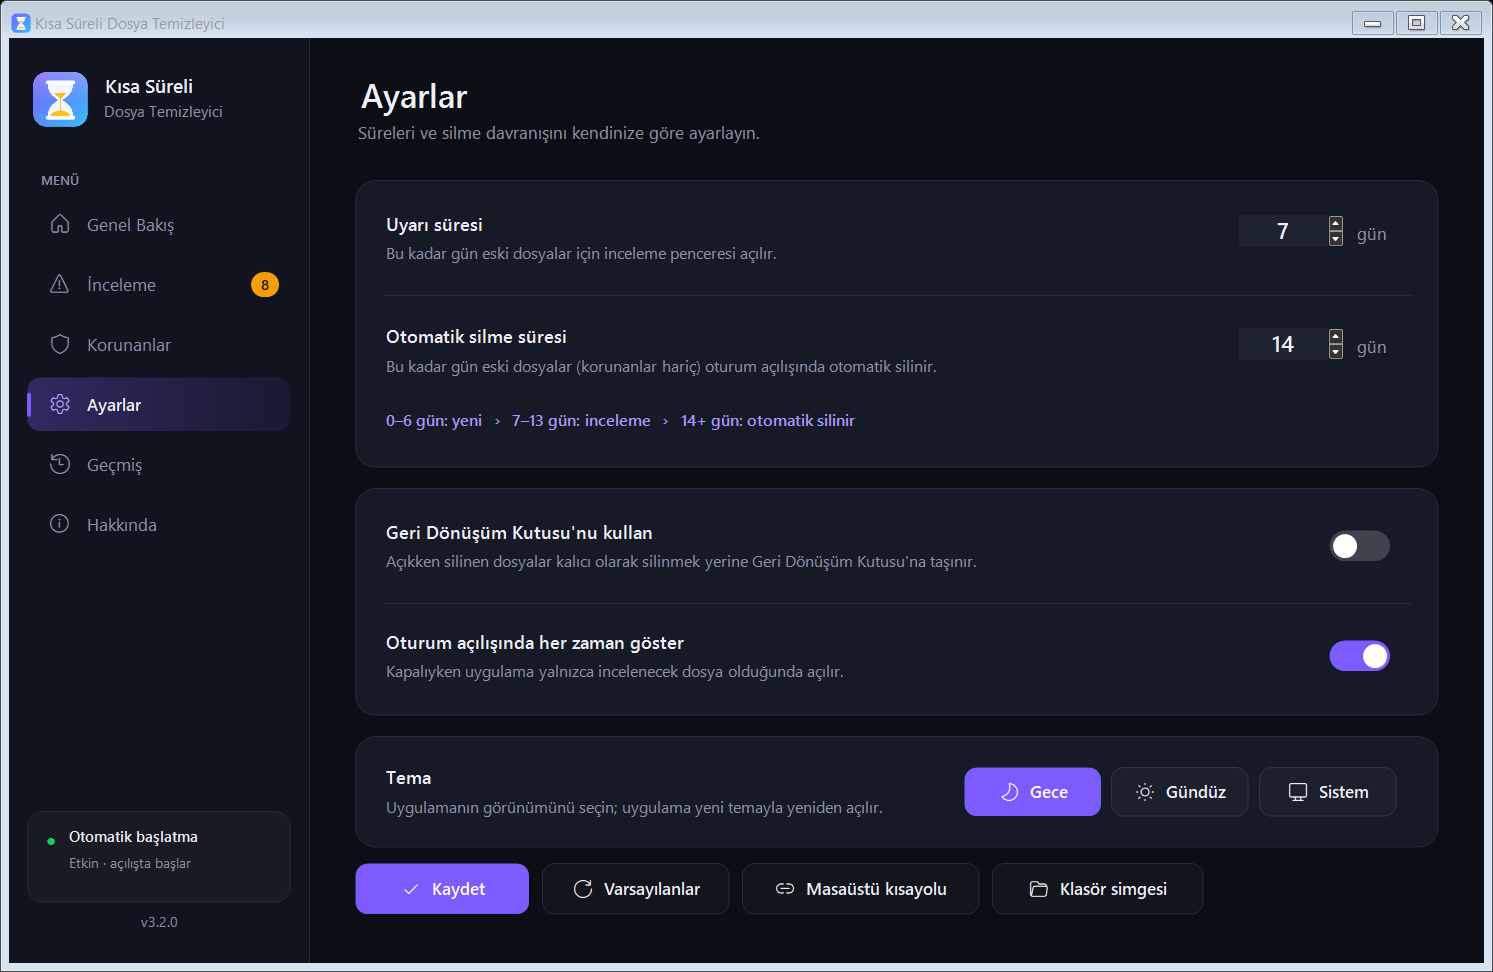
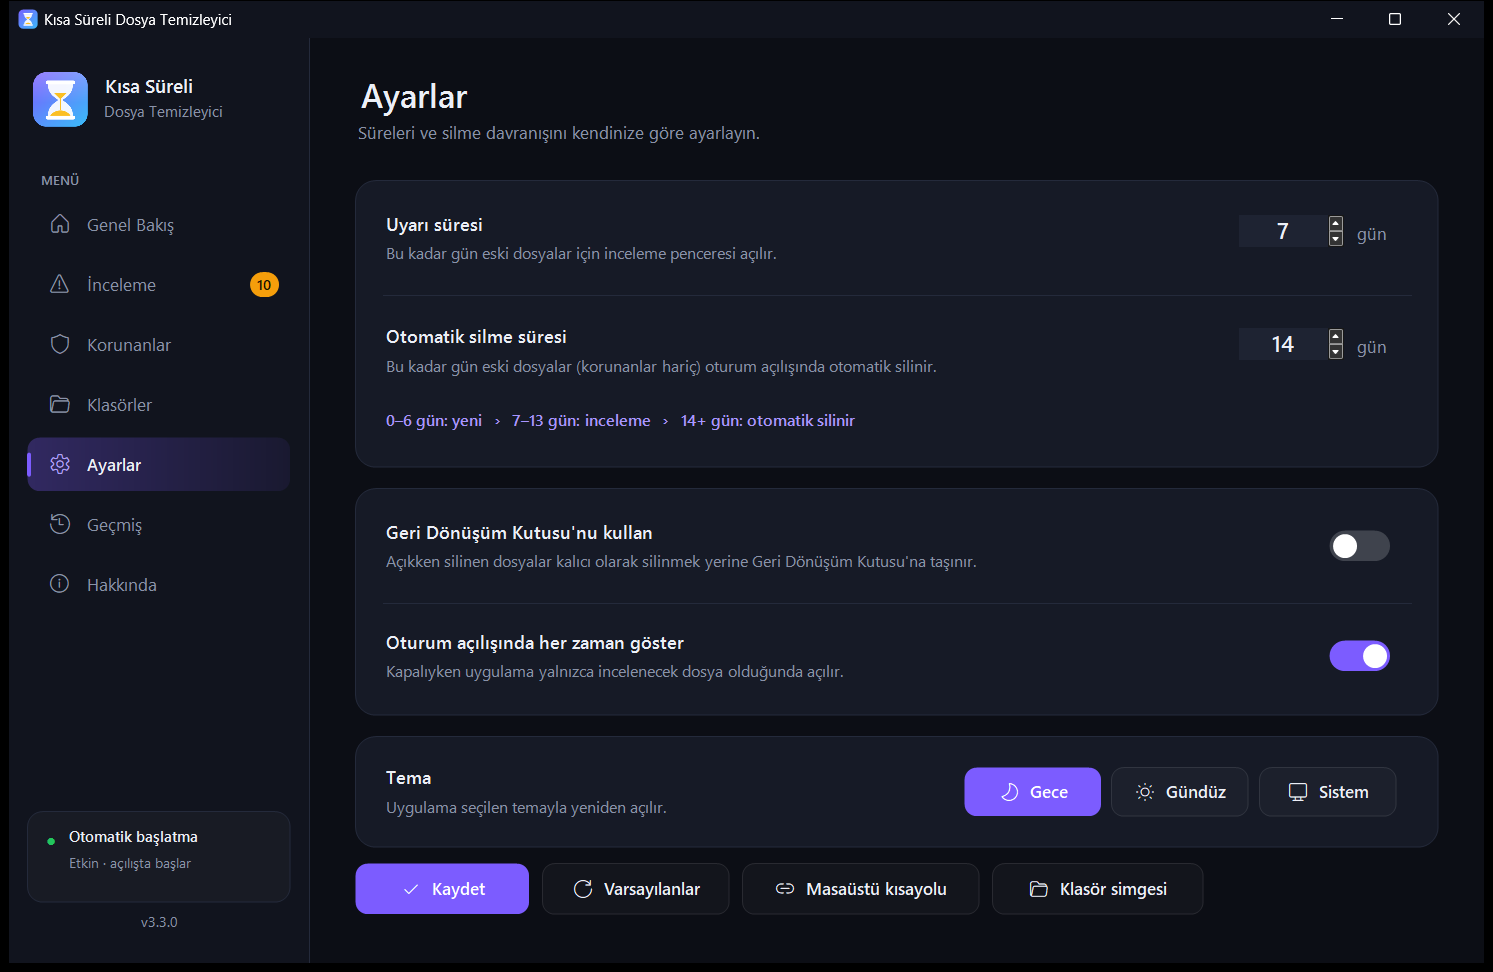
v3.3.0: Ek klasör desteği ve tema düğmesi örtülme düzeltmesi
- Klasörler sayfası: short-term-files dışındaki klasörler (ör. İndirilenler)
  takibe alınabilir; dosyaları incelenir, korunabilir, otomatik temizlenir.
- Eklenen klasörde dosya yaşı eklenme anından başlar (mevcut dosyalar hemen
  silinmez). Sürücü kökü, sistem/program klasörleri, AppData, kullanıcı
  klasörü/Masaüstü/Belgeler'in tamamı ve iç içe eklemeler engellenir.
- Silme ve koruma yalnızca takip edilen klasörlerin içinde çalışır.
- Ayarlar > Tema: dar pencerede açıklama metni "Gece" düğmesini örtüyordu.

Changed region(s): [[0.0, 0.0, 1.0, 1.0], [0.3081, 0.8025, 0.5546, 0.8333], [0.1541, 0.2778, 0.1849, 0.3086]]

diff --git a/.system/App.cs b/.system/App.cs
@@ -23,8 +23,8 @@ using System.Windows.Forms;
 [assembly: AssemblyProduct("Kısa Süreli Dosya Temizleyici")]
 [assembly: AssemblyCompany("Umut Zaif")]
 [assembly: AssemblyCopyright("MIT License - github.com/umutzaif/short-term-file-cleaner")]
-[assembly: AssemblyVersion("3.2.1.0")]
-[assembly: AssemblyFileVersion("3.2.1.0")]
+[assembly: AssemblyVersion("3.3.0.0")]
+[assembly: AssemblyFileVersion("3.3.0.0")]
 
 static class Program
 {

diff --git a/.github/README.md b/.github/README.md
@@ -7,7 +7,7 @@
 **Masaüstündeki geçici dosyalarınızı unutun. Süresi yaklaşanları size sorar, süresi dolanları kendisi temizler.**
 
 [![Platform](https://img.shields.io/badge/platform-Windows%2010%20%7C%2011-blue.svg)](https://www.microsoft.com/windows)
-[![Version](https://img.shields.io/badge/sürüm-3.2.1-7c5cff.svg)](../.system/CHANGELOG.md)
+[![Version](https://img.shields.io/badge/sürüm-3.3.0-7c5cff.svg)](../.system/CHANGELOG.md)
 [![License](https://img.shields.io/badge/lisans-MIT-green.svg)](../.system/LICENSE)
 
 </div>
@@ -67,6 +67,18 @@ Uyarı ve otomatik silme süreleri, Geri Dönüşüm Kutusu seçeneği, açılı
 
 ---
 
+## 📂 Ek klasörler
+
+`short-term-files` dışında, örneğin **İndirilenler** gibi istediğiniz klasörleri de takip ettirebilirsiniz: **Klasörler → Klasör Ekle**. Eklenen klasörlerdeki dosyalar da süreleri dolunca İnceleme ekranında size sorulur, korunabilir ve otomatik temizlenir.
+
+- **Güvenli başlangıç:** Eklenen klasördeki dosyaların süresi, klasörün eklendiği andan başlar. Klasörde yıllardır duran dosyalar bile hemen silinmez; önce incelemenize sunulur.
+- **Korunan konumlar:** Sürücü kökleri (ör. `C:\`), Windows, Program Files, AppData ile kullanıcı klasörünün, Masaüstü'nün ve Belgeler'in tamamı eklenemez.
+- **Takipten çıkarmak** klasörü veya dosyaları silmez; yalnızca denetimi durdurur.
+
+![Klasörler](screenshots/klasorler.png)
+
+---
+
 ## 🔄 Güncellemeler
 
 Yeni bir sürüm çıktığında uygulamayı silip yeniden indirmeniz **gerekmez**:
@@ -92,6 +104,7 @@ Ayarlarınız, korunan dosya listeniz, işlem geçmişiniz ve klasördeki dosyal
 - **Dosya koruma:** Önemli dosyalarınızı kalıcı olarak koruyun
 - **Geri Dönüşüm Kutusu desteği:** İsterseniz dosyalar kalıcı silinmek yerine Geri Dönüşüm Kutusu'na gider
 - **Korunan sistem dosyaları:** Uygulamanın kendi dosyaları gizli `.system` klasöründedir. Listelerde görünmez, silinemez ve korumaları değiştirilemez
+- **Ek klasörler:** İndirilenler gibi başka klasörleri de takip ettirin
 - **Tema seçimi:** Gece, Gündüz veya Windows ayarını izleyen Sistem teması
 - **Uygulama içi güncelleme:** Yeni sürüm tek tıkla kurulur, ayarlar ve dosyalar korunur
 - **İşlem geçmişi:** Yapılan her silme ve koruma işlemi kaydedilir

diff --git a/.system/CHANGELOG.md b/.system/CHANGELOG.md
@@ -2,6 +2,21 @@
 
 All notable changes to this project will be documented in this file.
 
+## [3.3.0] - 2026-10-14
+
+### Added
+- **Ek klasörler**: Yeni **Klasörler** sayfasından short-term-files dışındaki klasörler (ör. İndirilenler) takibe
+  alınabilir. Bu klasörlerdeki dosyalar da incelenir, korunabilir ve otomatik temizlenir; İnceleme ekranında
+  hangi klasörden geldikleri görünür.
+  - Eklenen klasördeki dosyaların süresi klasörün eklendiği andan başlar; mevcut dosyalar hemen silinmez.
+  - Sürücü kökleri, Windows/Program Files/AppData ve kullanıcı klasörünün, Masaüstü'nün, Belgeler'in tamamı
+    eklenemez; iç içe veya tekrar eklemeler engellenir.
+  - Silme ve koruma, yalnızca takip edilen klasörlerin içindeki dosyalara izin verir.
+
+### Fixed
+- Ayarlar'daki Tema satırında, pencere dar olduğunda açıklama metni "Gece" düğmesinin üstünü örtüyordu.
+  Ayar satırlarındaki etiketler artık her zaman düğmelerin arkasında kalıyor ve tema açıklaması düğmelerle çakışmıyor.
+
 ## [3.2.1] - 2026-10-14
 
 ### Fixed
